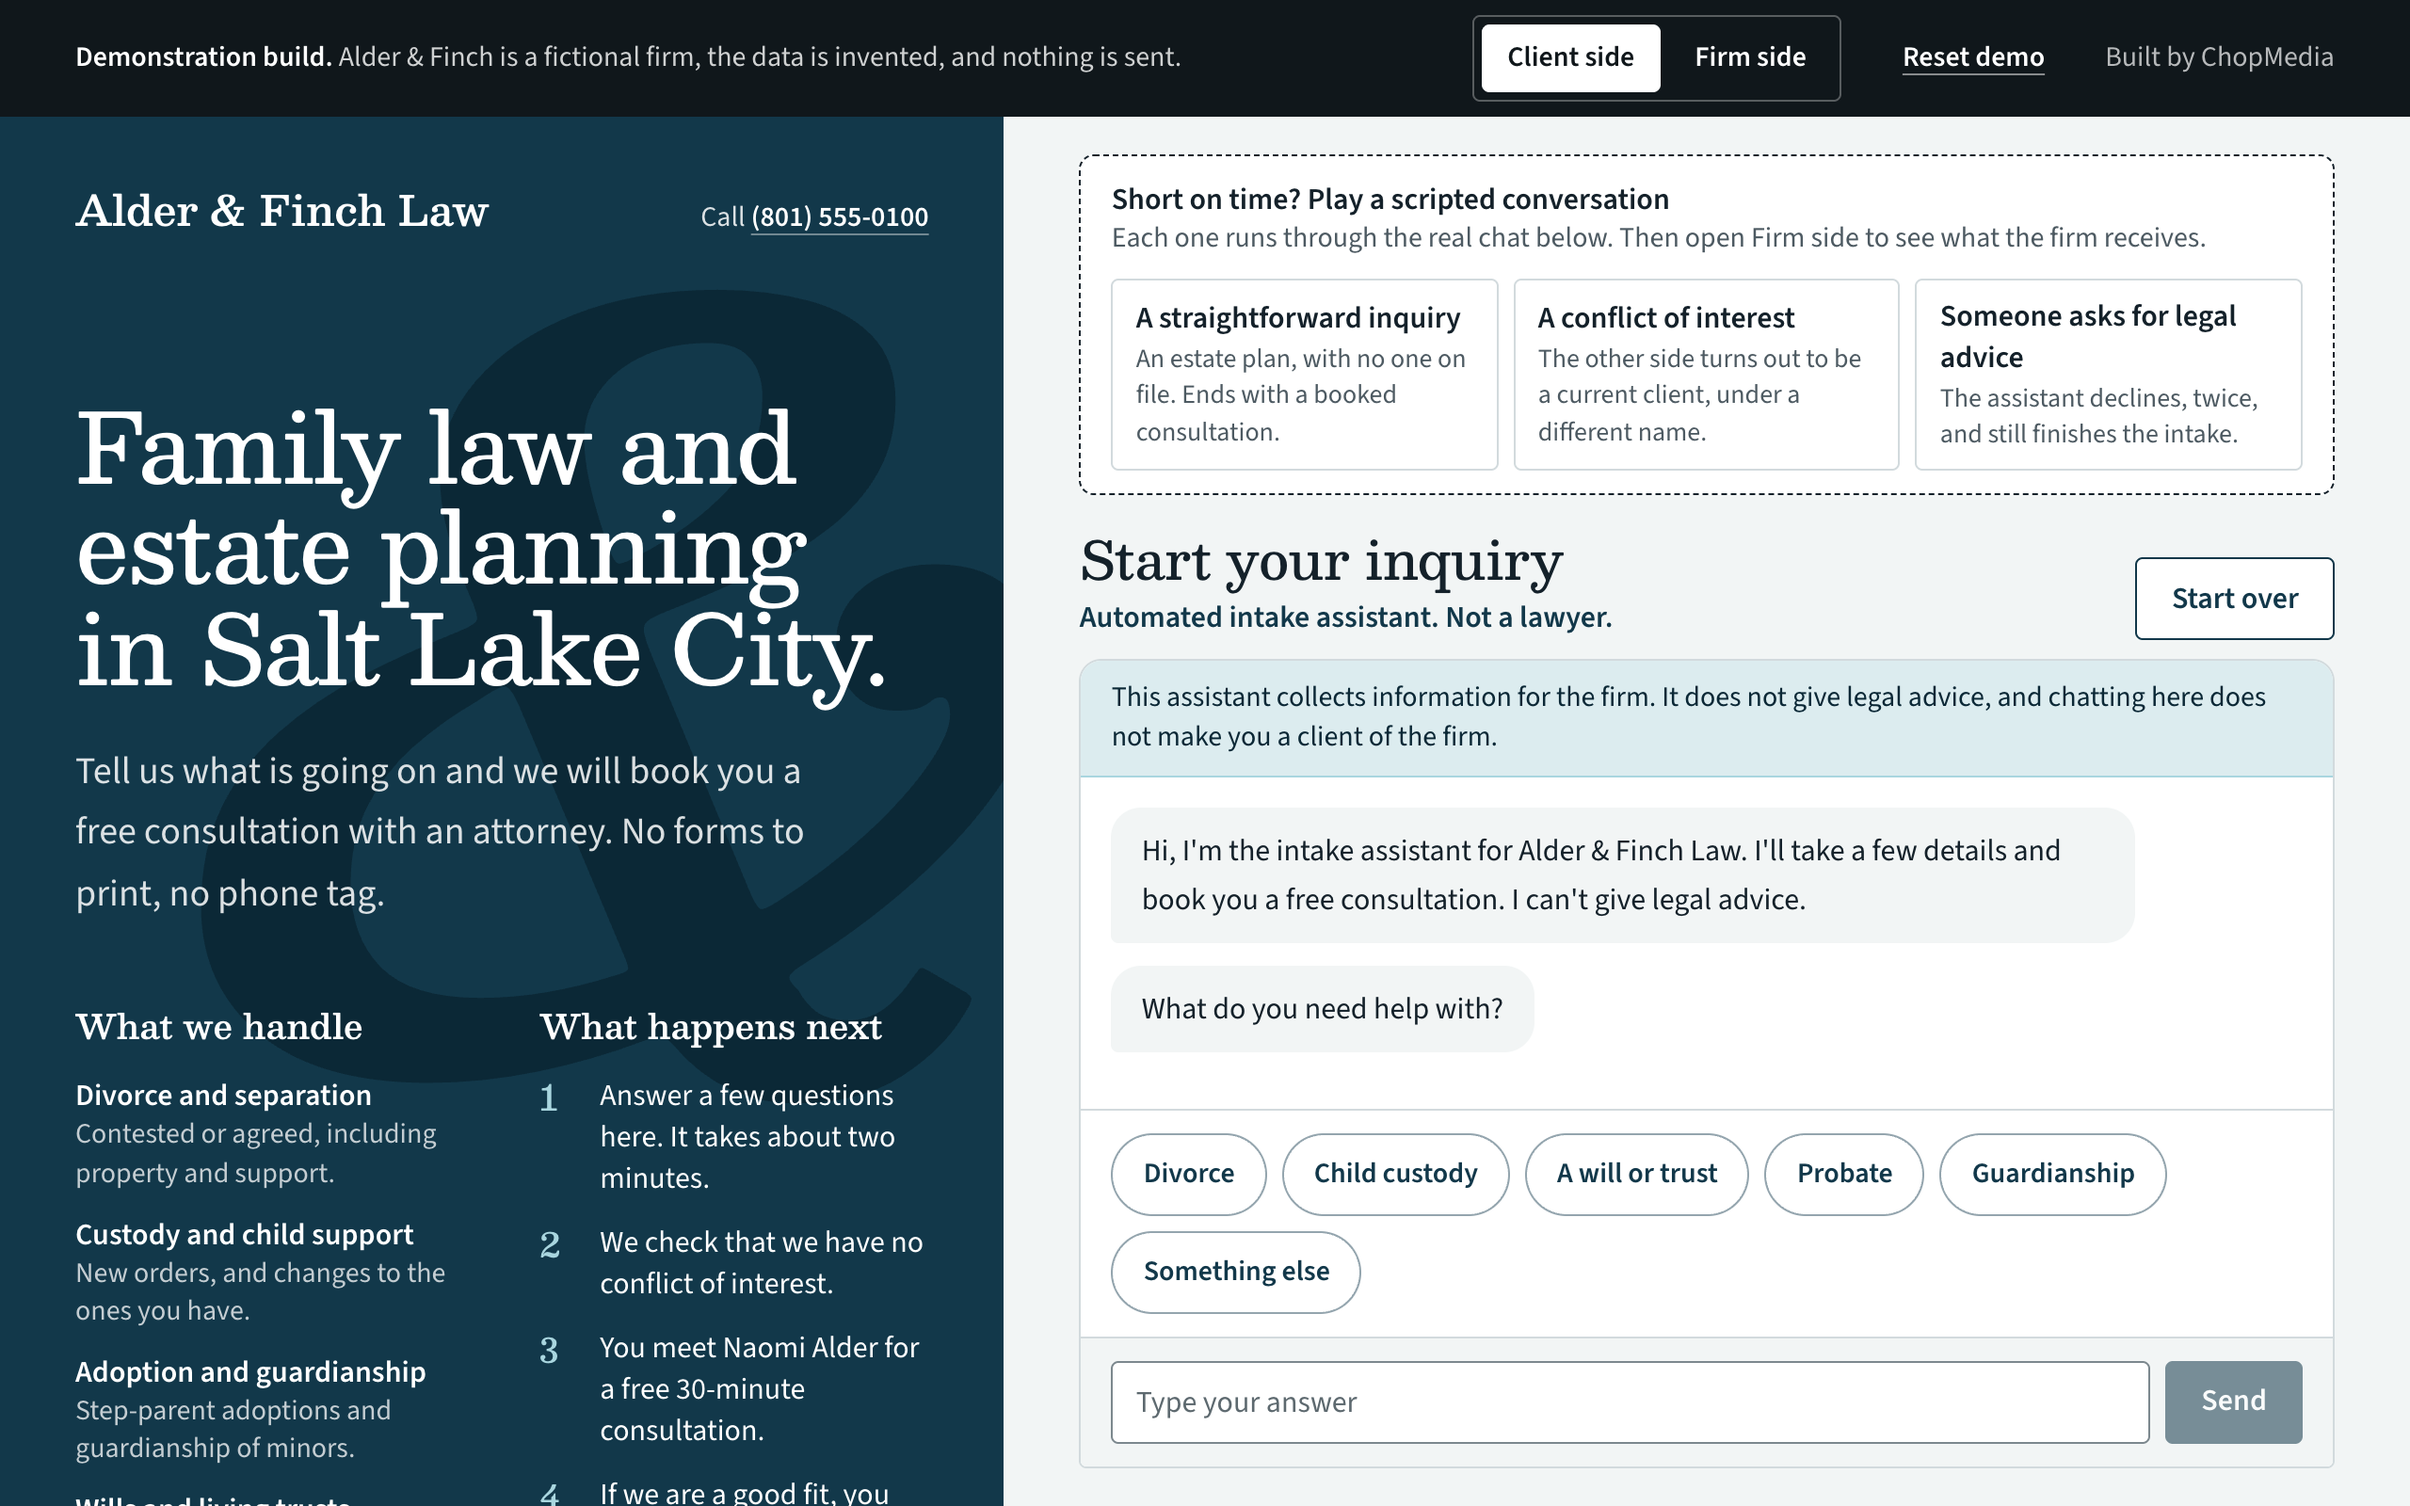
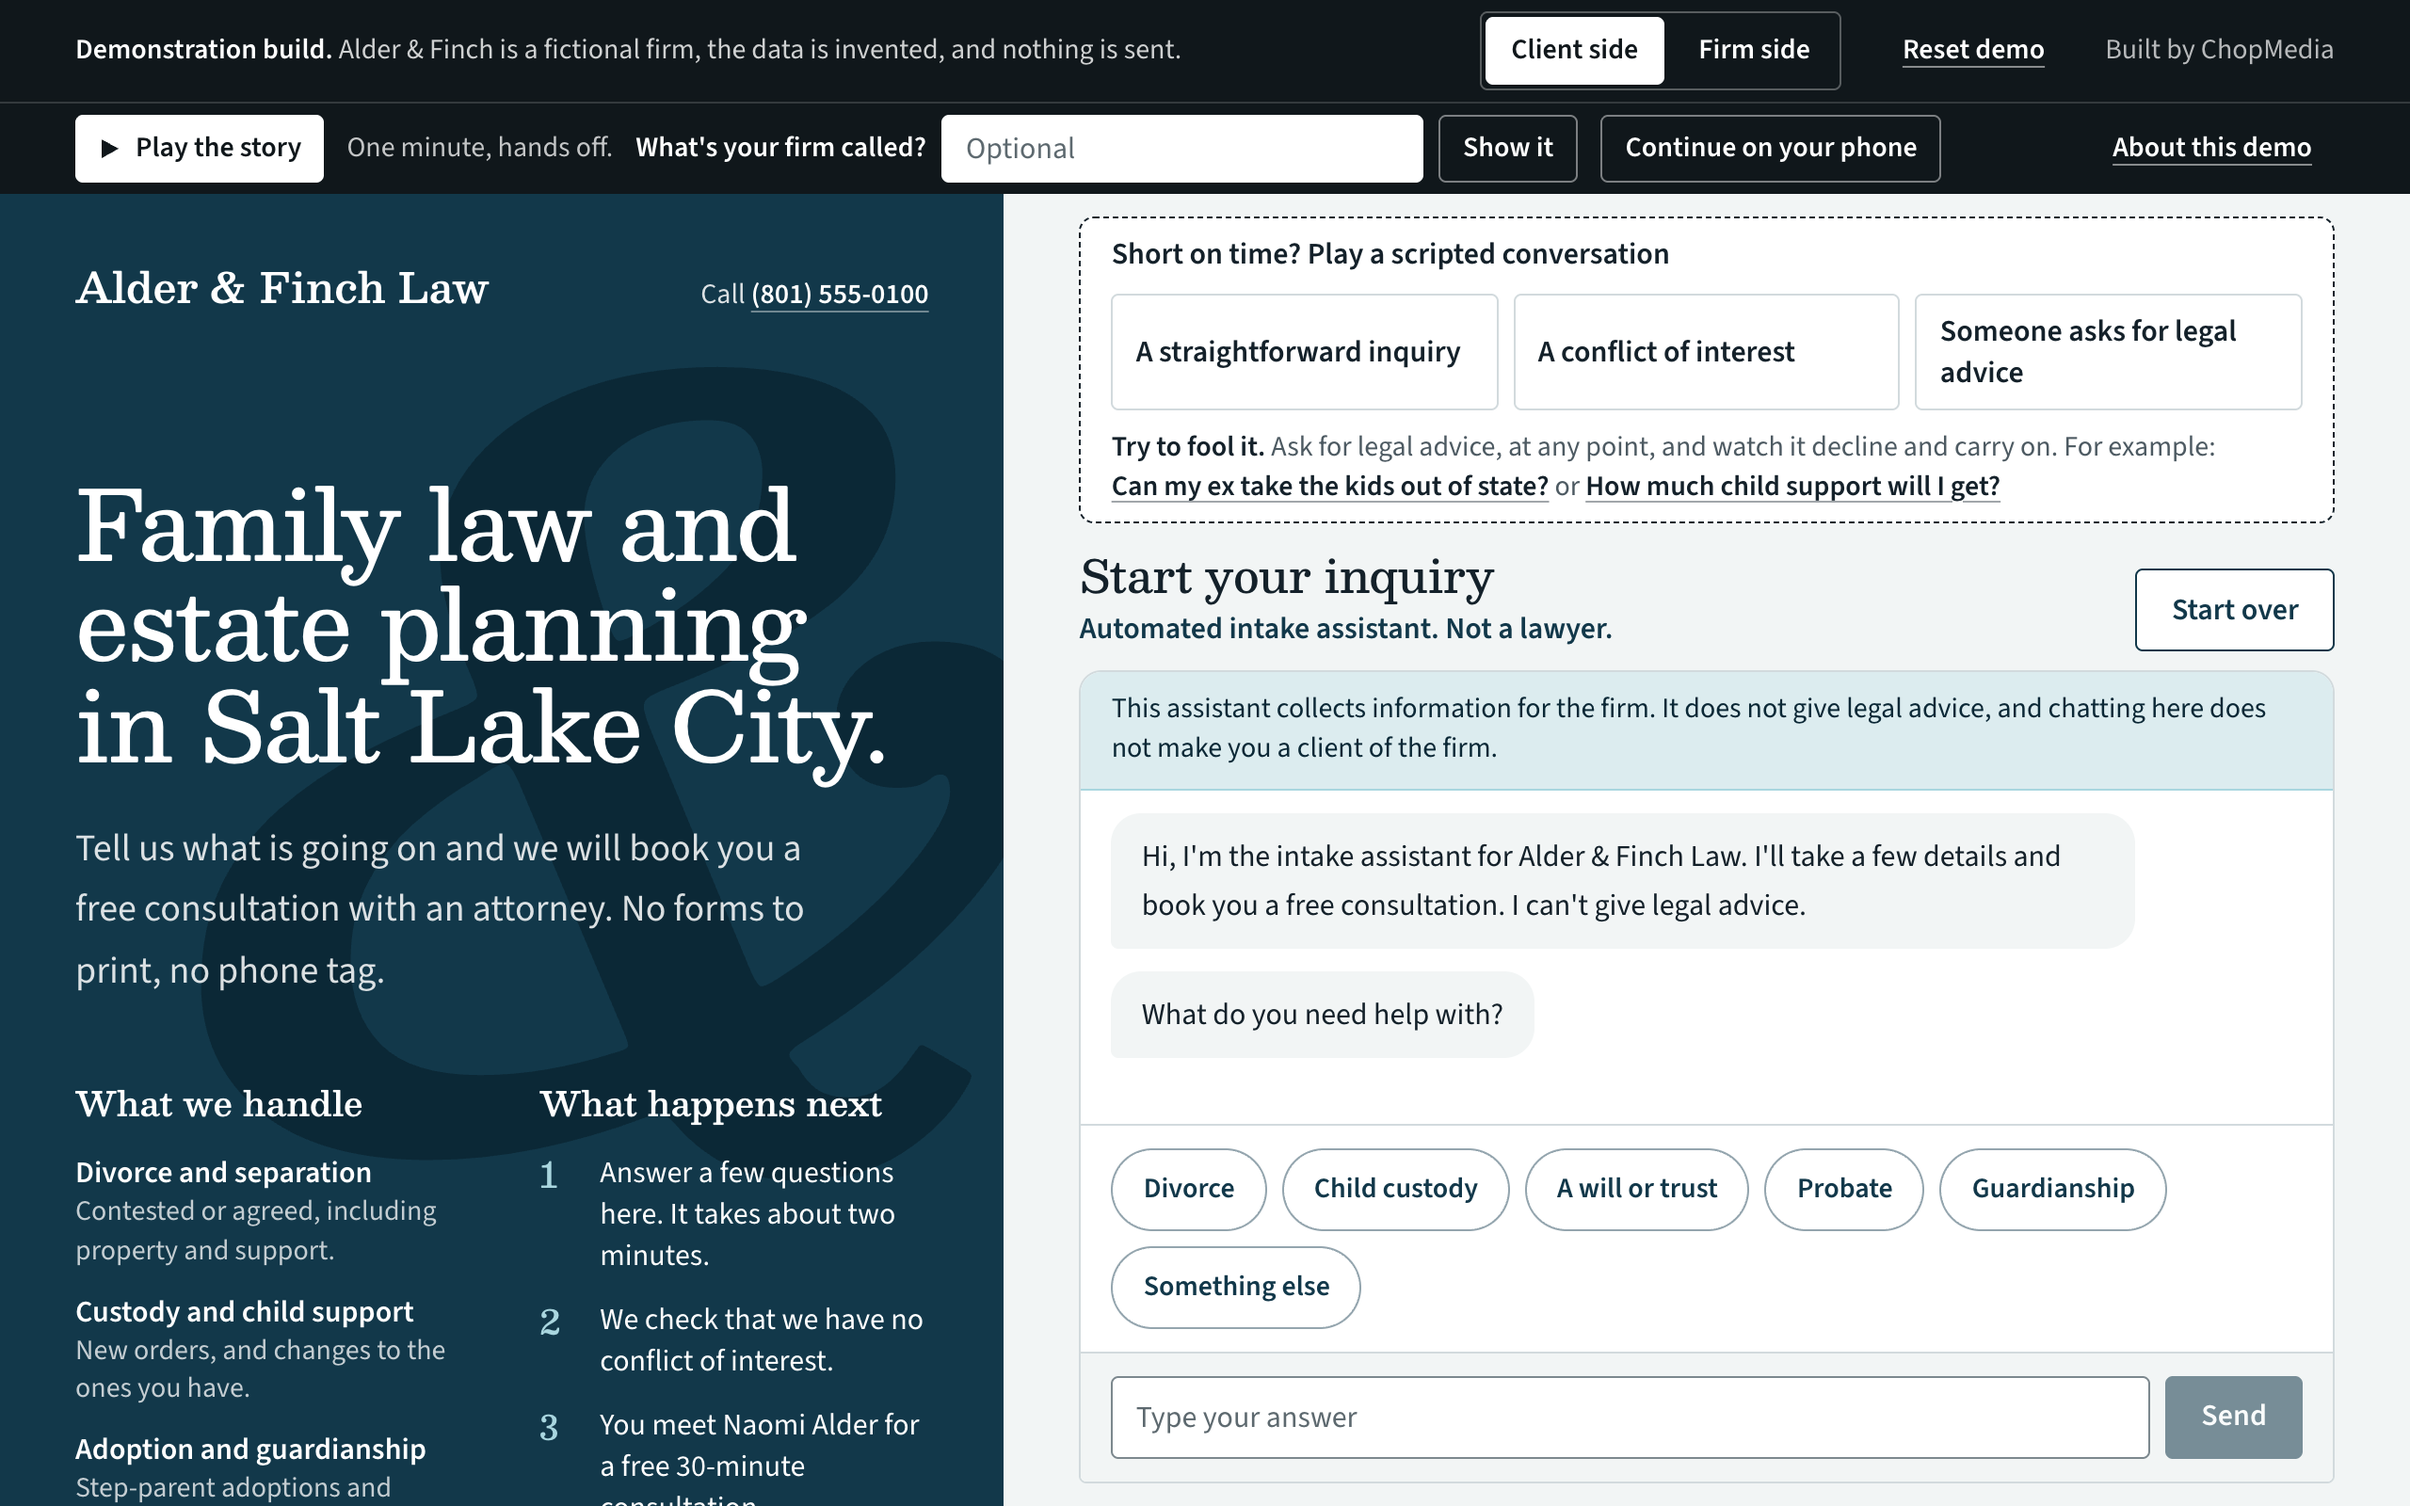
Update README and screenshots for the new demo bar

diff --git a/README.md b/README.md
@@ -23,15 +23,23 @@ Each step is small. Together they are days of delay and several places for a mis
 - **Collects the signature** on a phone or a computer, typed or drawn, and produces a signed PDF with a record of who did what and when.
 - **Opens the matter** and shows the exact requests that would create the client and matter in Clio, and every email and text message that would have gone out.
 
+The demo itself adds a few things on top, all in the dark bar across the top of the page:
+
+- **Play the story.** About a minute, hands off: the demo presses its own buttons, from a client's first message to an open matter, with a one-sentence caption for each step and a Stop button throughout.
+- **Your firm's name.** Type a firm name and it replaces Alder & Finch on the website, the firm side, the chat, the letter, the signing page and the PDF. Everything else stays invented, and the bar says so.
+- **Continue on your phone.** A QR code opens the same copy of the sample data on a phone. Sign a letter there and the page on the computer updates by itself.
+- **About this demo.** One page on what was shown, what a real version would connect to, and which parts are recorded here and would be live in a real build.
+
 ## Try it
 
-Three things worth clicking first:
+Four things worth clicking first:
 
-1. On the client side, play **A conflict of interest**. Then switch to **Firm side**, open Marcus Bell, and run the conflict check. The other side gave her name as Kate Reyes. The firm knows her as Katherine O'Malley-Reyes, a current client.
-2. Open **Gideon Marsh**, whose letter is waiting for signature, and under **Play the client** choose **Open the signing page** to sign it. Then open the signed PDF.
-3. Open the **Outbox** to see everything the system would have sent along the way.
+1. Press **Play the story** in the top bar and watch for a minute. It ends on an open matter and a link to a page that explains what you saw.
+2. On the client side, play **A conflict of interest**. Then switch to **Firm side**, open Marcus Bell, and run the conflict check. The other side gave her name as Kate Reyes. The firm knows her as Katherine O'Malley-Reyes, a current client.
+3. Open **Gideon Marsh**, whose letter is waiting for signature, and choose **Sign it on your phone**. Scan the code, sign on the phone, and watch the computer change to Signed. With no phone to hand, **Open the signing page** does the same in one browser.
+4. Open **Conflict search** and use **Try to fool it**: four names written differently from the files that should still be found, and one that should not.
 
-**Reset demo** in the top bar puts everything back.
+Typing your firm's name into the top bar first makes all of it read as your own office. **Reset demo** puts everything back, including the name.
 
 ![The firm side: every inquiry, scored and tracked](docs/inquiries.png)
 
@@ -63,8 +71,8 @@ Next.js 16 (App Router, React 19, TypeScript), Tailwind CSS 4, Drizzle ORM on Po
 
 ```
 src/
-  app/                  pages: client site, firm side (/staff), signing (/sign), PDF route
-  components/           chat, signature pad, letter, navigation
+  app/                  pages: client site, firm side (/staff), signing (/sign), PDF route, phone handoff (/join), about
+  components/           chat, signature pad, letter, navigation, demo bar, story
   lib/
     chat/               the intake conversation: engine, advice guardrail, scripted scenarios
     conflicts/          name normalization, nicknames, similarity, the conflict check
@@ -79,7 +87,7 @@ src/
 Decisions worth knowing about:
 
 - **The core logic is plain functions with tests.** Conflict matching, scoring, the chat engine and the workflow do not depend on Next.js, and the workflow tests run against a real in-memory Postgres.
-- **Every visitor gets their own sandbox.** A cookie names a private copy of the sample data, created on first visit and deleted after 48 hours, so visitors to a public demo cannot see or disturb each other. One consequence: a signing link only opens in the browser that created it.
+- **Every visitor gets their own sandbox.** A cookie names a private copy of the sample data, created on first visit and deleted after 48 hours, so visitors to a public demo cannot see or disturb each other. A signing link therefore only opens in a browser that holds that cookie. The phone handoff works by giving the phone a short link, good for 15 minutes, that sets the same cookie. The link never contains the sandbox's own id.
 - **No paid services and no keys.** Email, text messages and Clio are recorded in an outbox table instead of being called. There is no language model in the demo.
 - **Postgres both ways.** Locally the app runs on an embedded Postgres (PGlite) stored in `.data/`, so there is nothing to install. With `DATABASE_URL` set it uses a normal Postgres server with the same schema and queries.
 
